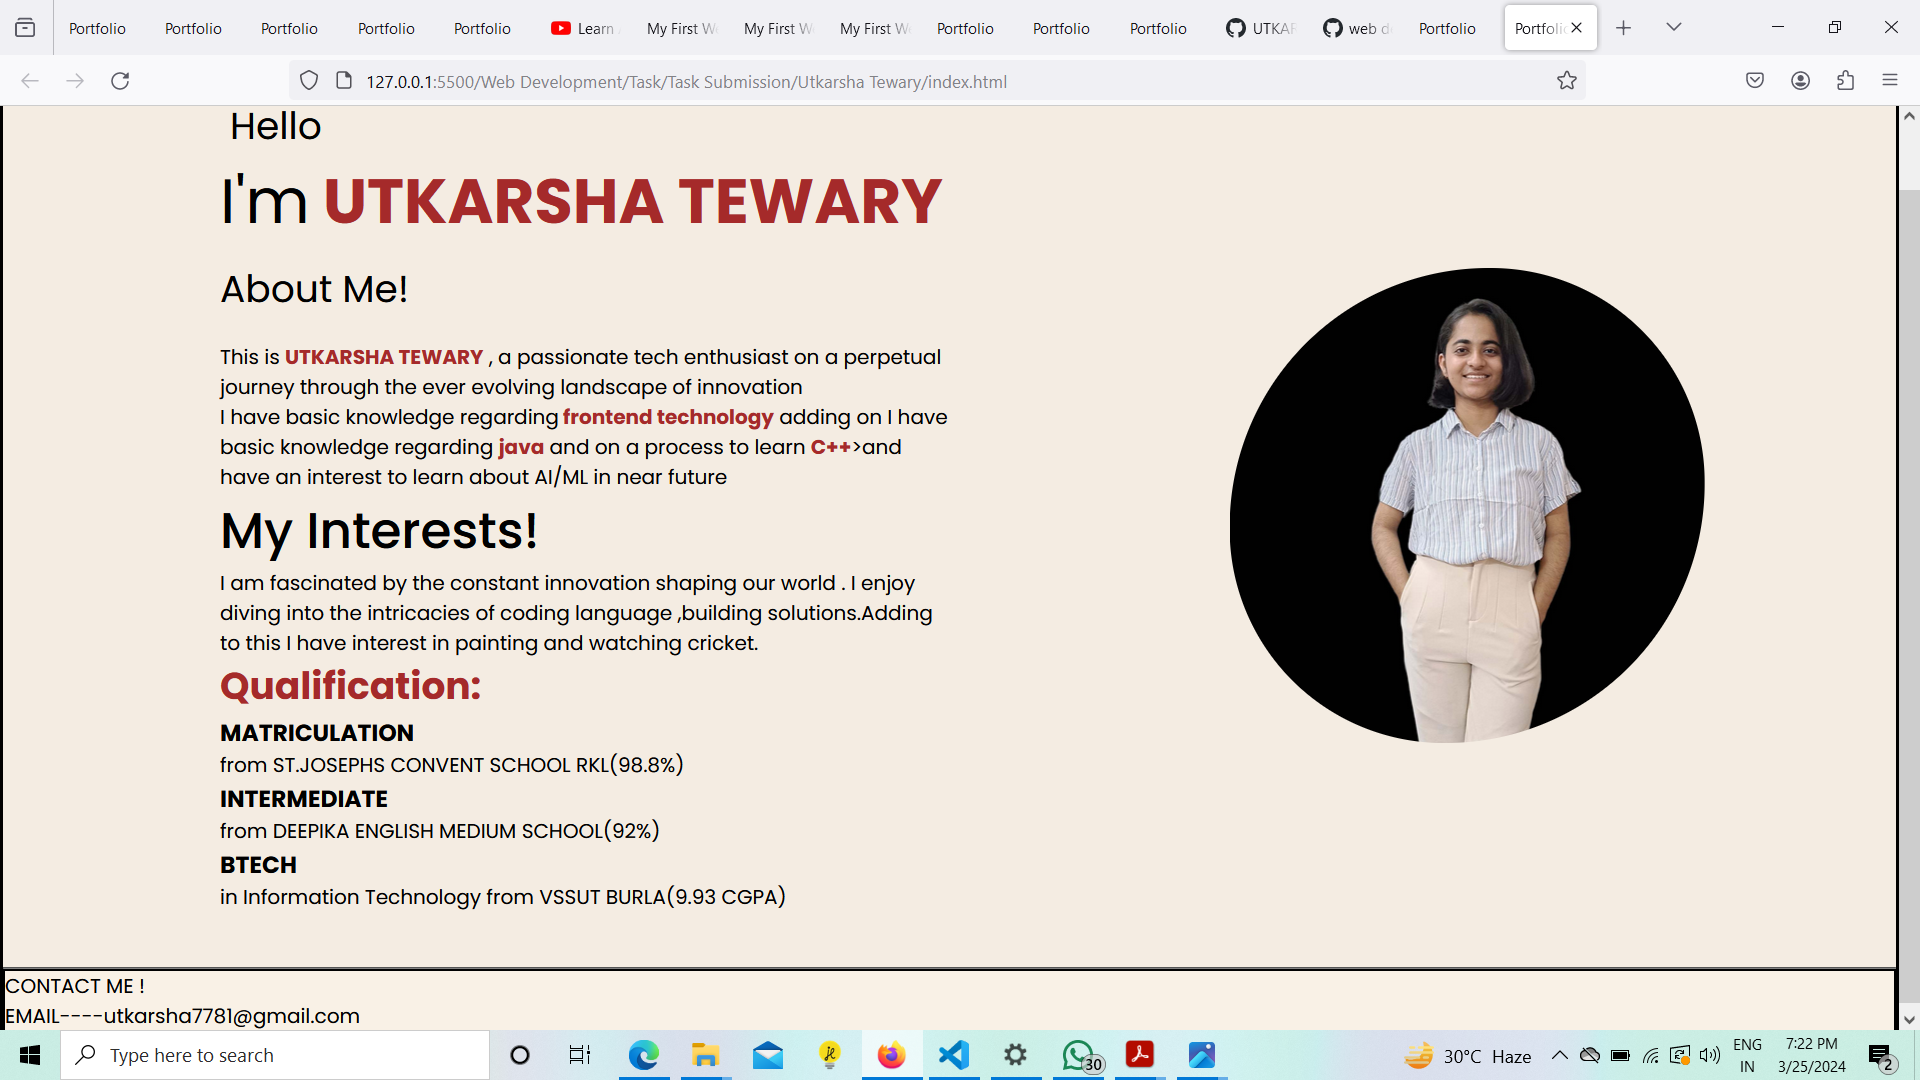
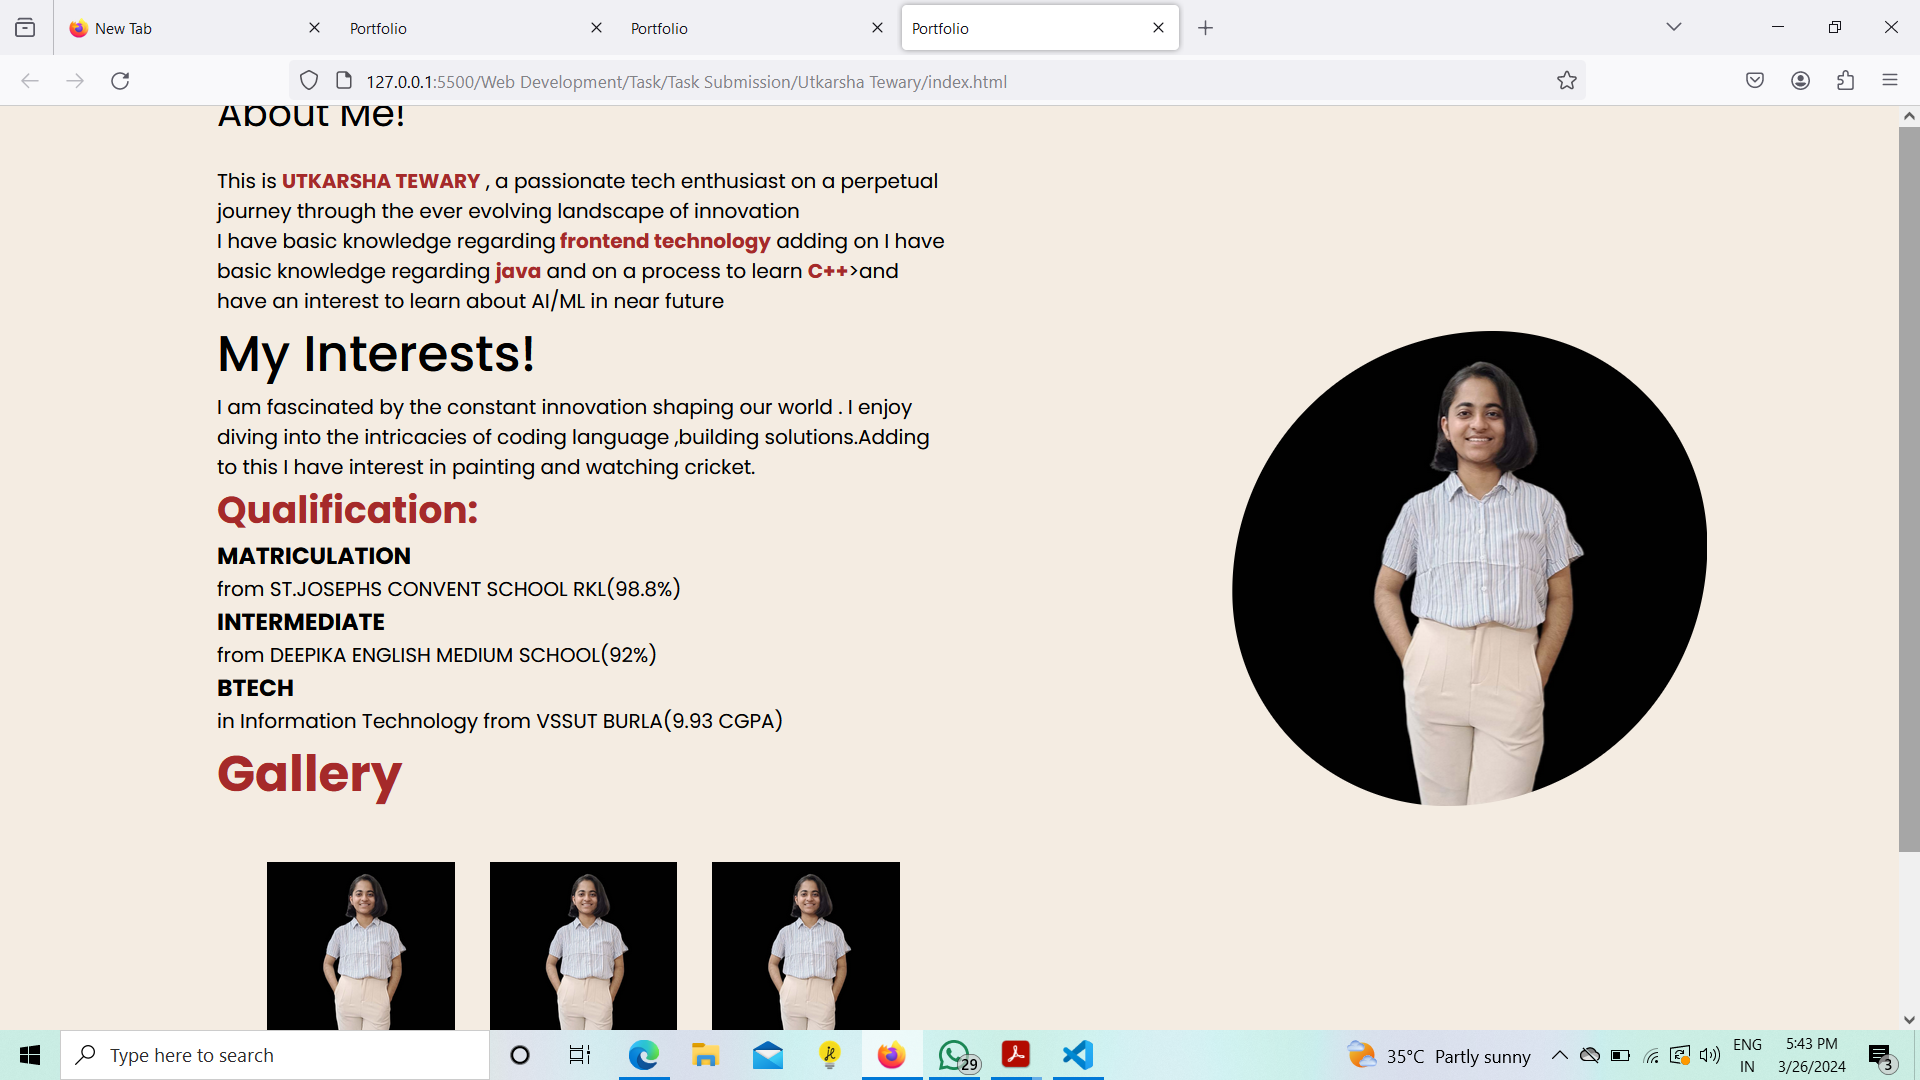
task 3 done

diff --git a/Web Development/Task/Task Submission/Utkarsha Tewary/index.html b/Web Development/Task/Task Submission/Utkarsha Tewary/index.html
@@ -54,7 +54,20 @@
                     </div>
                 </div>
                 </section>
+                <STRONG class="pp3"> Gallery</STRONG>
+            <ul>
+                
+                <li><img src="Utkarsha.png" alt ="pic" ></li>
+                <li class="aa"><img src="Utkarsha.png" alt ="pic"></li>
+                <li class="aa"><img src="Utkarsha.png" alt ="pic"></li>
+    
             
+            </ul>
+            <hr>
+            <div >
+                <p class="ct">CONTACT ME!</p>
+                <P> Email----utkarsha7781@gmail.com</P>
+            </div>
             
 
                 </p></div>
@@ -64,17 +77,11 @@
             <div class="demo-image">
                 <div class="image">
                     <img src="Utkarsha.png" alt="avatar">
-                    <p> Gallery</p>
+                    <p class=""> Gallery</p>
                 </div>
             </div>
             </div>
-            <hr>
-            <div class="contact">
-            <p>CONTACT ME !</p>
-            <P>EMAIL----utkarsha7781@gmail.com</p>
-            </div>
-
-            </div>
+            
 
 </body>
 </html>

diff --git a/Web Development/Task/Task Submission/Utkarsha Tewary/style.css b/Web Development/Task/Task Submission/Utkarsha Tewary/style.css
@@ -2,13 +2,14 @@
 * {
   margin: 0;
   padding: 0;
-  box-sizing: border-box;
+  max-height: 900px;
+  box-sizing: content-box;
   font-family: "Poppins", sans-serif;
 
 }
 
 body {
-  border:3px solid black;
+  
   background-color: rgb(244, 236, 226);
   
 }
@@ -17,6 +18,26 @@ body {
   font-size: 40px;
   font-weight: 450;
 }
+.pp3{
+  font-size: 40px;
+  color: brown;
+}
+.ct{
+  font-size: 40px;
+  color: brown;
+
+}
+img{
+  width: 150px;
+  height:150 px;
+}
+ul{
+  display:flex;
+  flex-direction: row;
+  padding:40px 40px;
+  justify-content: space-between;
+}
+
 
  
 
@@ -143,10 +164,7 @@ body {
     }
 }
   
-  .contact{
-    border: 2px solid black;
-    background-color:rgb(249, 241, 230)
-  }
+  
   
 
 
